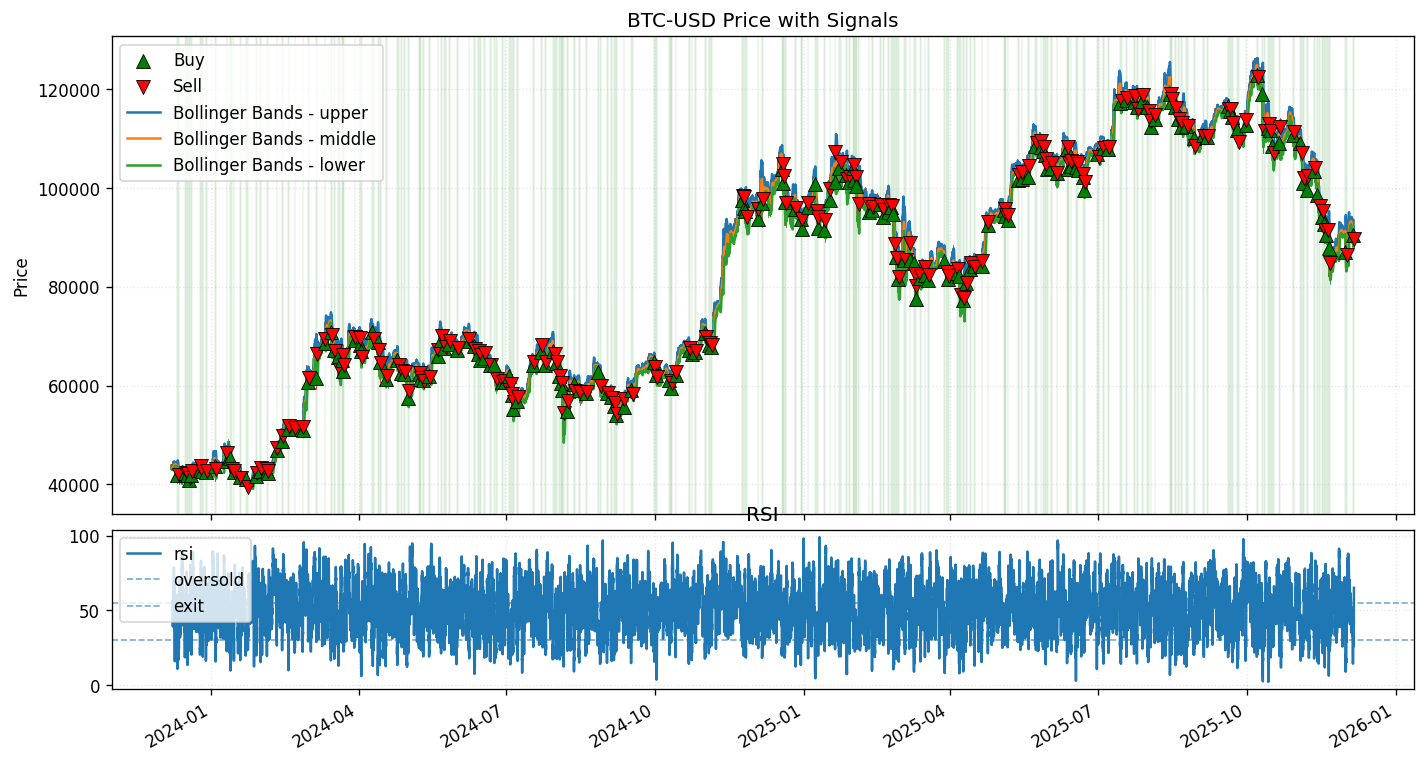
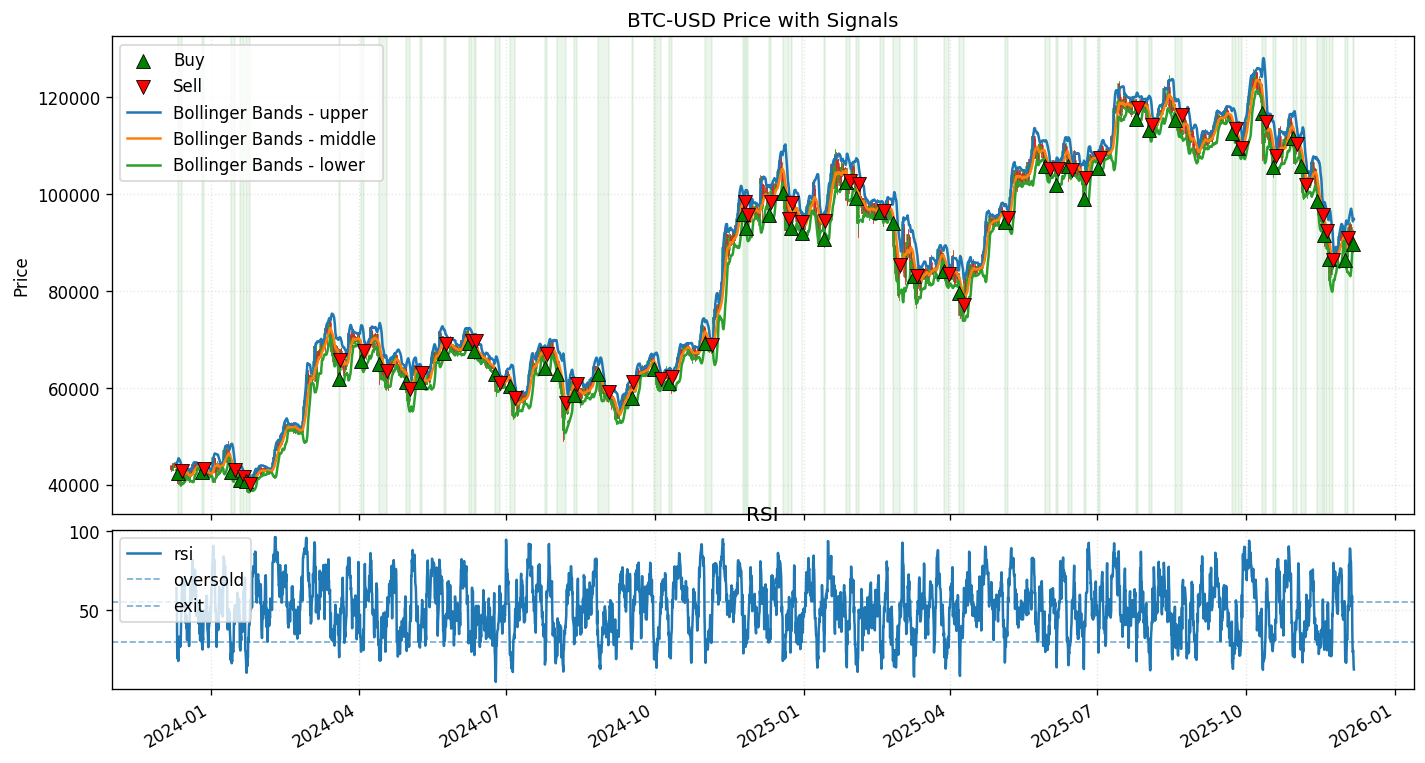
update granularity to include 4 hours

diff --git a/config/settings.py b/config/settings.py
@@ -39,7 +39,7 @@ COINBASE_API_SECRET = _secret.replace("\\n", "\n")
 COINBASE_API_HOST = os.getenv("COINBASE_API_HOST", "api.coinbase.com")
 
 _granularity = int(os.getenv("COINBASE_GRANULARITY", "3600"))
-_allowed_granularities = {60, 300, 900, 3600, 21600, 86400}
+_allowed_granularities = {60, 300, 900, 3600, 14400, 21600, 86400}
 if _granularity not in _allowed_granularities:
     _granularity = 3600
 COINBASE_GRANULARITY = _granularity

diff --git a/main.py b/main.py
@@ -29,6 +29,7 @@ def build_data_client():
         raise RuntimeError("Coinbase credentials are required for data access")
 
     print("✓ Using Coinbase Advanced Trade market data")
+    print("COINBASE_GRANULARITY: ", COINBASE_GRANULARITY)
     return CoinbaseDataClient(
         granularity_seconds=COINBASE_GRANULARITY,
         api_key=COINBASE_API_KEY,

diff --git a/data/coinbase_client.py b/data/coinbase_client.py
@@ -24,6 +24,7 @@ class CoinbaseDataClient(DataClient):
         300: "FIVE_MINUTE",
         900: "FIFTEEN_MINUTE",
         3600: "ONE_HOUR",
+        14400: "FOUR_HOUR",
         21600: "SIX_HOUR",
         86400: "ONE_DAY",
     }
